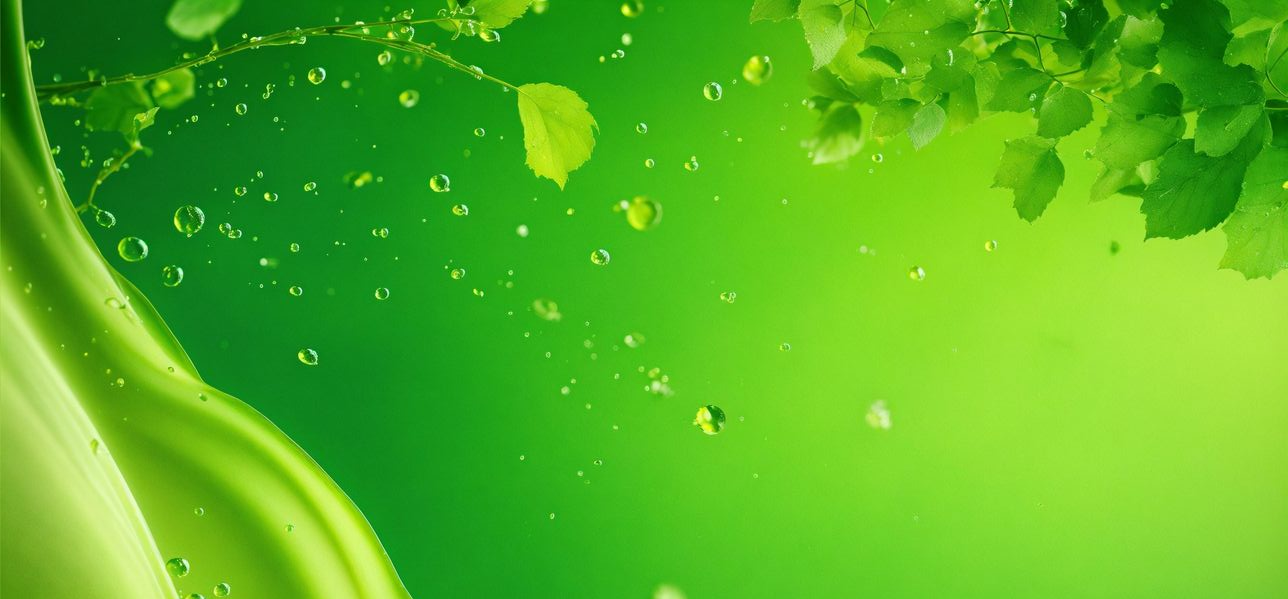
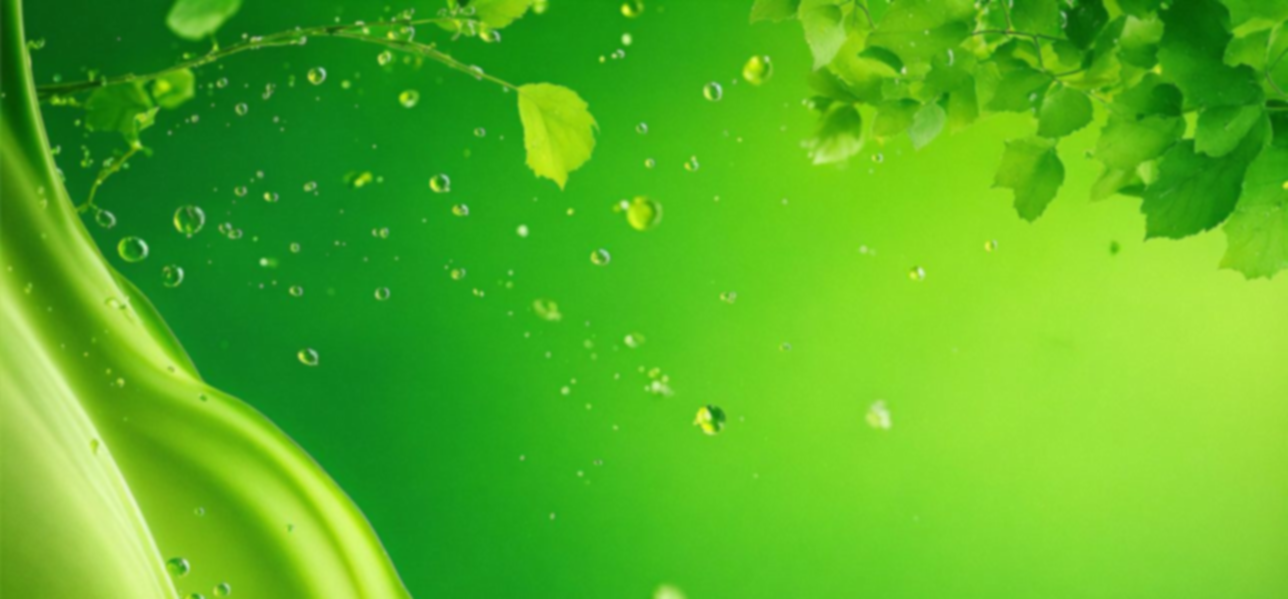
adjusting hero image

diff --git a/styles.css b/styles.css
@@ -130,7 +130,7 @@ main {
 .about-container {
   position: relative;
   background: url('images/greenery-hero-background.png') no-repeat center center/cover;
-  height: 80vh; /* adjust height as needed */
+  height: 60vh; /* adjust height as needed */
   display: flex;
   flex-direction: column;
   justify-content: center;
@@ -146,8 +146,7 @@ main {
   content: "";
   position: absolute;
   inset: 0;
-  background: url('images/greenery-hero-background.png') no-repeat center center/cover;
-  filter: blur(6px); /* blur */
+  background: url('images/greenery-hero-background.png') no-repeat center center/cover; 
   z-index: 0; /* behind everything */
 }
 
